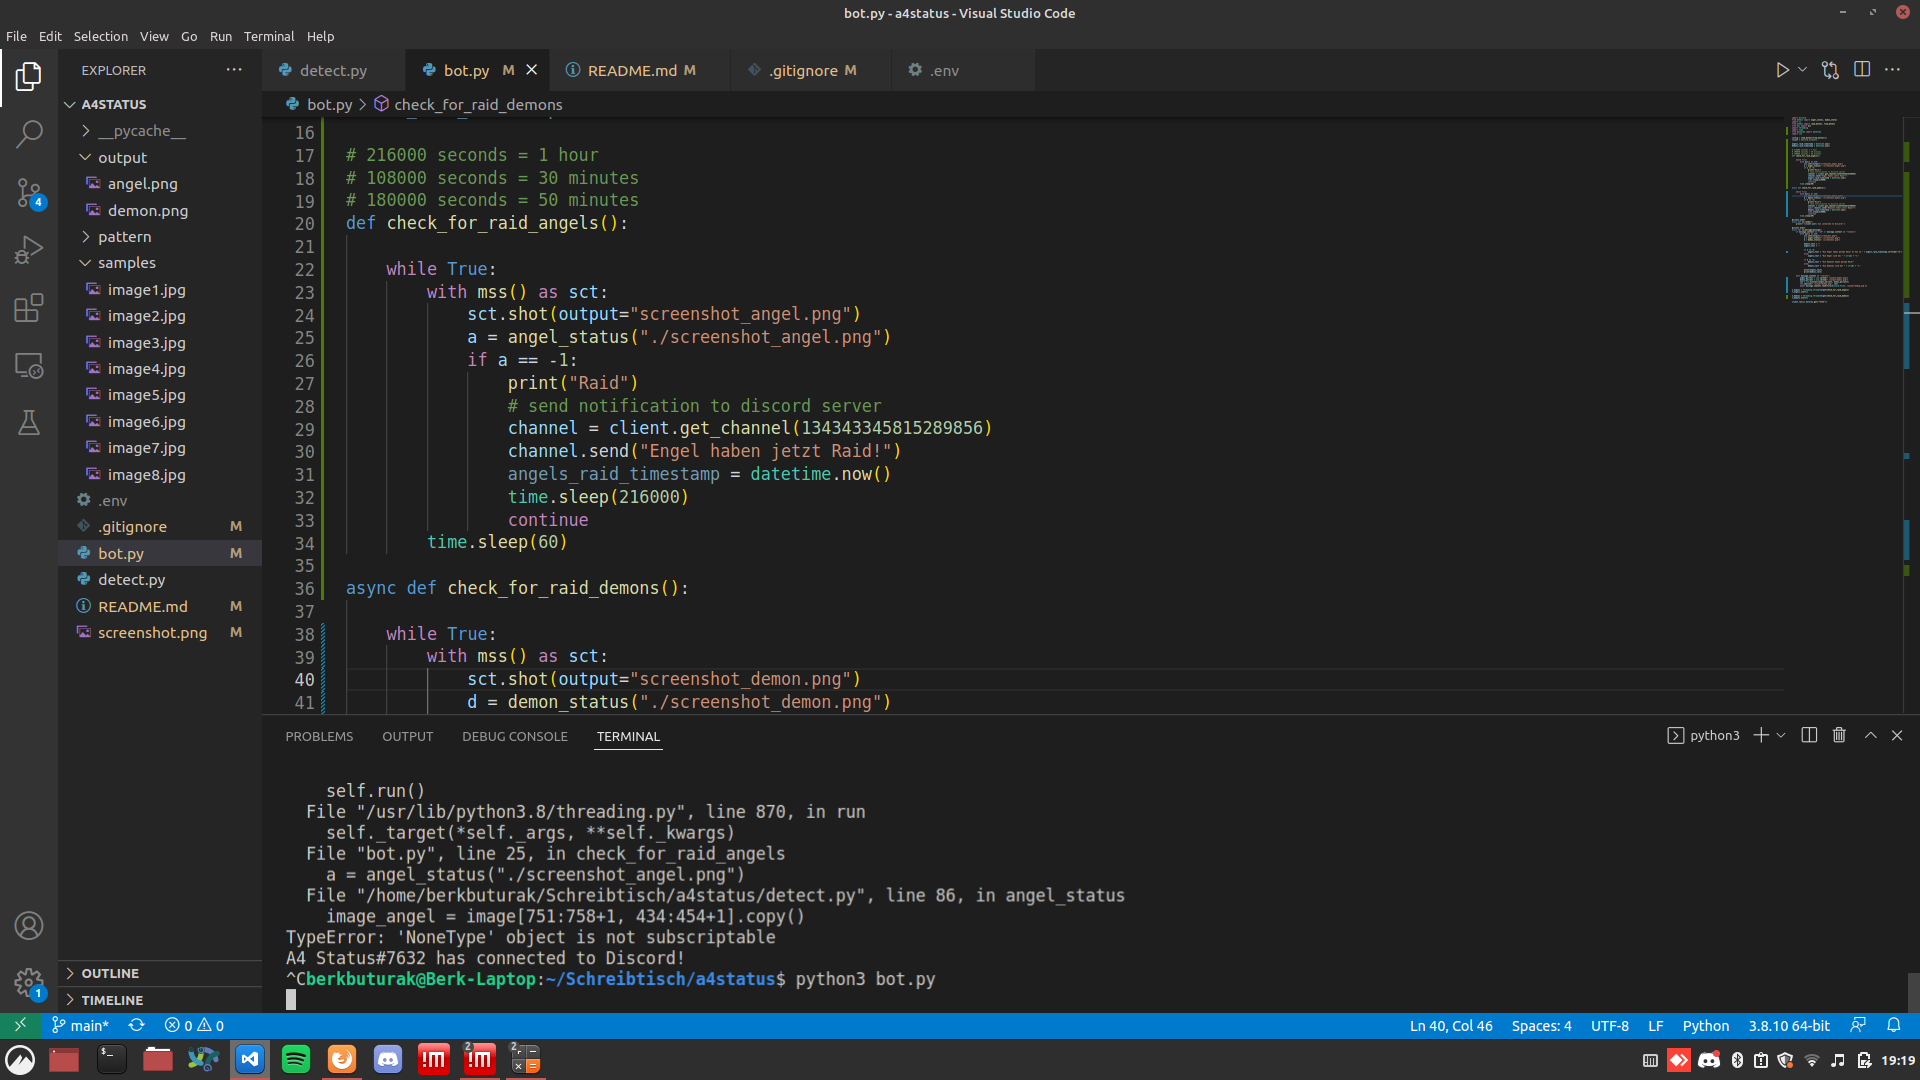
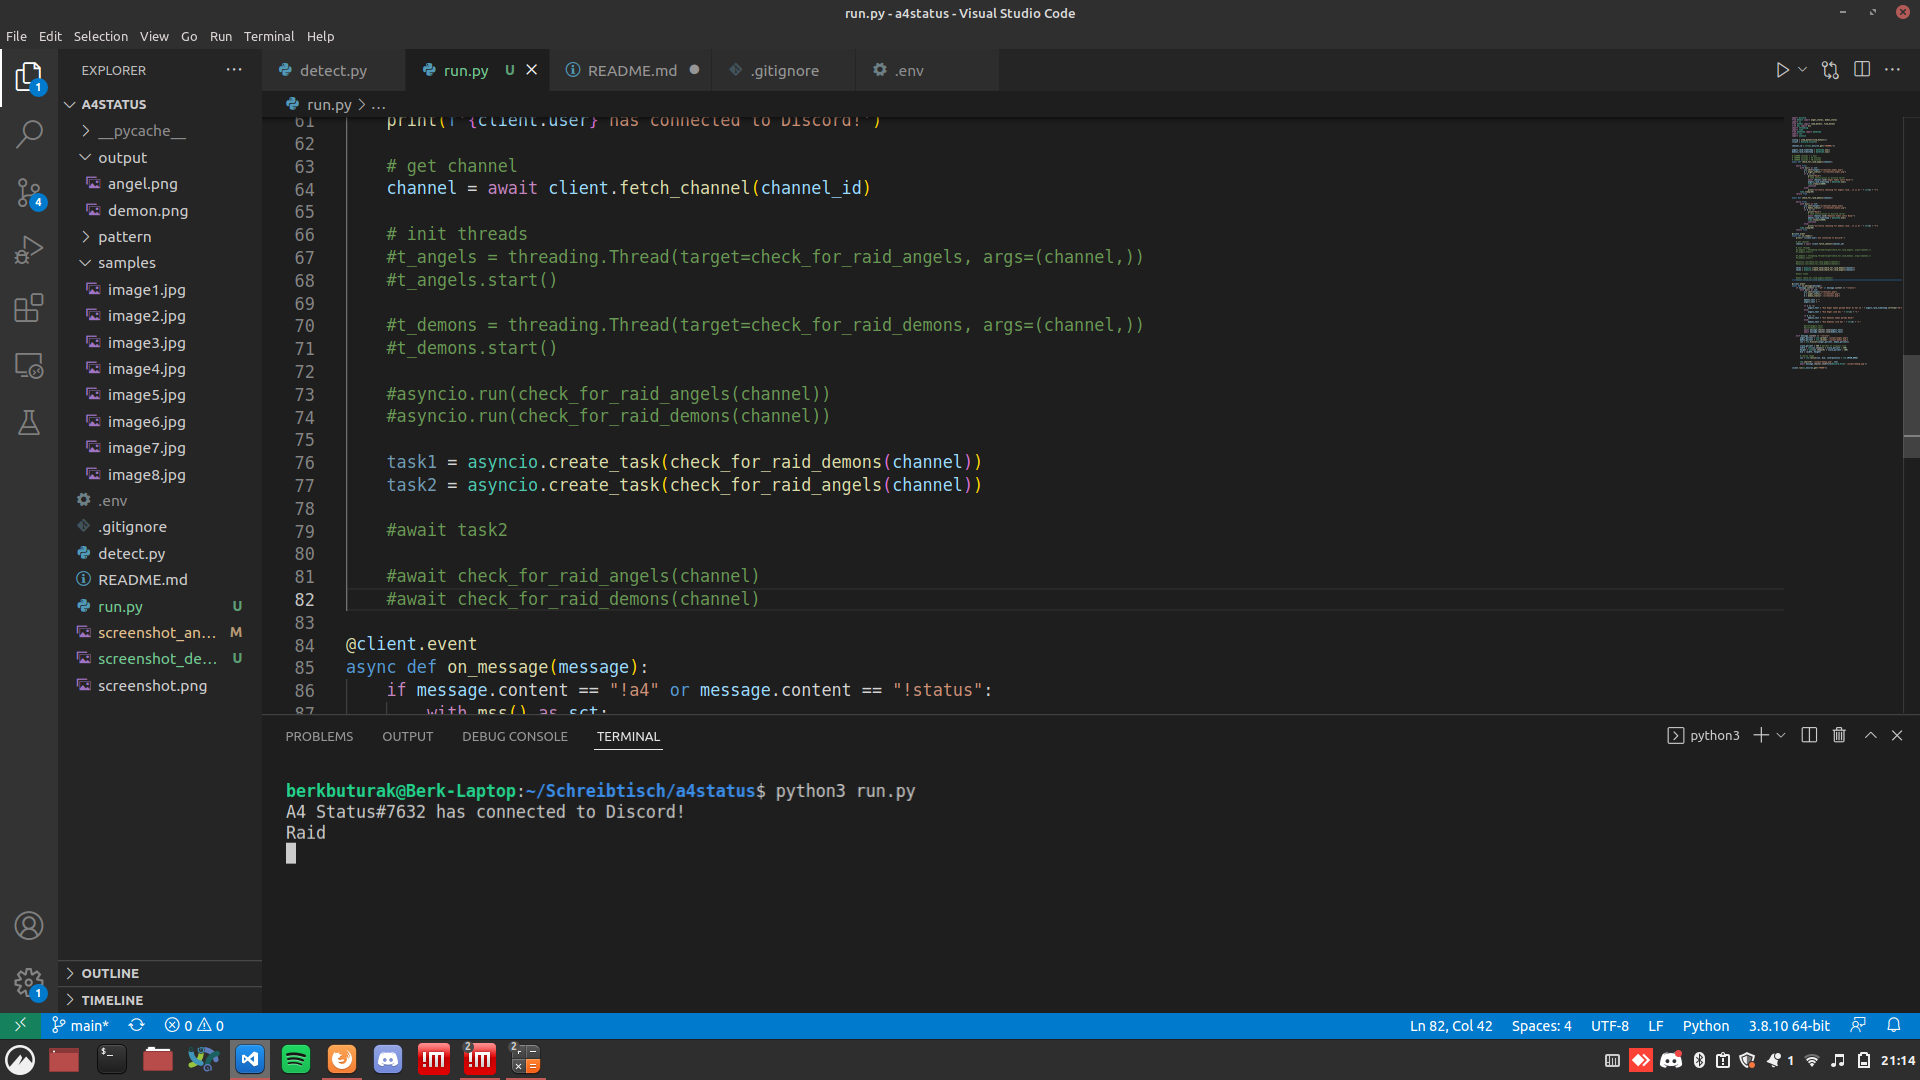
rename bot.py to run.py, added threading for both angels and demons2

diff --git a/run.py b/run.py
@@ -7,11 +7,12 @@ import threading
 import time
 from datetime import datetime
 import cv2
+import asyncio
 
 config = load_dotenv(find_dotenv())
 client = discord.Client()
 
-channel_to_notify = str(os.environ.get("CHANNEL"))
+channel_id = str(os.environ.get("CHANNEL"))
 
 angels_raid_timestamp = datetime.now()
 demons_raid_timestamp = datetime.now()
@@ -19,7 +20,7 @@ demons_raid_timestamp = datetime.now()
 # 216000 seconds = 1 hour
 # 108000 seconds = 30 minutes
 # 180000 seconds = 50 minutes
-async def check_for_raid_angels():
+async def check_for_raid_angels(channel):
 
     while True:
         with mss() as sct:
@@ -28,7 +29,6 @@ async def check_for_raid_angels():
             if a == -1:
                 print("Raid")
                 # send notification to discord server
-                channel = client.get_channel(channel_to_notify)
                 await channel.send("Engel haben jetzt Raid!")
                 angels_raid_timestamp = datetime.now()
                 time.sleep(216000)
@@ -36,8 +36,9 @@ async def check_for_raid_angels():
             else:
                 print("Currently checking for angels raid.. it is at " + str(a) + "%")
         time.sleep(60)
+    return True
 
-async def check_for_raid_demons():
+async def check_for_raid_demons(channel):
 
     while True:
         with mss() as sct:
@@ -46,7 +47,6 @@ async def check_for_raid_demons():
             if d == -1:
                 print("Raid")
                 # send notification to discord server
-                channel = client.get_channel(channel_to_notify)
                 await channel.send("Dämonen haben jetzt Raid!")
                 demons_raid_timestamp = datetime.now()
                 time.sleep(216000)
@@ -54,10 +54,32 @@ async def check_for_raid_demons():
             else:
                 print("Currently checking for demons raid.. it is at " + str(d) + "%")
         time.sleep(60)
+    return True
 
 @client.event
 async def on_ready():
     print(f'{client.user} has connected to Discord!')
+
+    # get channel
+    channel = await client.fetch_channel(channel_id)
+
+    # init threads
+    #t_angels = threading.Thread(target=check_for_raid_angels, args=(channel,))
+    #t_angels.start()
+
+    #t_demons = threading.Thread(target=check_for_raid_demons, args=(channel,))
+    #t_demons.start()
+
+    #asyncio.run(check_for_raid_angels(channel))
+    #asyncio.run(check_for_raid_demons(channel))
+    
+    task1 = asyncio.create_task(check_for_raid_demons(channel))
+    task2 = asyncio.create_task(check_for_raid_angels(channel))
+
+    #await task2
+
+    #await check_for_raid_angels(channel)
+    #await check_for_raid_demons(channel)
 
 @client.event
 async def on_message(message):
@@ -100,11 +122,5 @@ async def on_message(message):
 
         cv2.imwrite("./output/debug.png", con)
         await message.channel.send(file=discord.File('./output/debug.png'))
-
-t_angels = threading.Thread(target=check_for_raid_angels)
-t_angels.start()
-
-t_demons = threading.Thread(target=check_for_raid_demons)
-t_demons.start()
 
 client.run(os.environ.get("TOKEN"))
